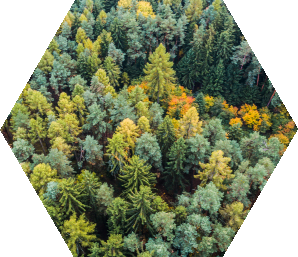
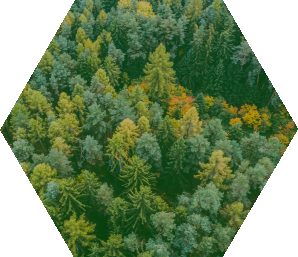
add hex textures

diff --git a/client/src/hex_ui.rs b/client/src/hex_ui.rs
@@ -4,9 +4,9 @@ use hex2d::{Coordinate, Spacing};
 use macroquad::color::Color;
 use macroquad::math::{f32, i32, vec2};
 use macroquad::prelude::{
-    draw_text, draw_texture_ex, DrawTextureParams, Rect, Texture2D, BLACK, WHITE,
+    draw_text, draw_texture_ex, DrawTextureParams, Rect, Texture2D, BLACK, DARKGRAY, WHITE,
 };
-
+use macroquad::shapes::draw_hexagon;
 
 use server::position::Position;
 
@@ -24,7 +24,7 @@ pub fn center(pos: Position) -> Point {
 
 pub fn draw_hex(p: Position, fill_color: Color, text_color: Color, alpha: f32, t: &Texture2D) {
     let c = center(p);
-    let mut v = fill_color.to_vec();
+    let mut v = WHITE.to_vec();
     v.w = alpha;
     draw_texture_ex(
         t,
@@ -37,7 +37,7 @@ pub fn draw_hex(p: Position, fill_color: Color, text_color: Color, alpha: f32, t
             ..Default::default()
         },
     );
-    // draw_hexagon(c.x, c.y, SIZE, 2.0, false, DARKGRAY, Color::from_vec(v));
+    draw_hexagon(c.x, c.y, SIZE, 2.0, false, DARKGRAY, Color::from_vec(v));
     draw_text(&p.to_string(), c.x - 30.0, c.y - 35.0, 20.0, text_color);
 }
 

diff --git a/client/src/map_ui.rs b/client/src/map_ui.rs
@@ -19,6 +19,7 @@ use crate::ui_state::{can_play_action, ActiveDialog, State, StateUpdate, StateUp
 use crate::{collect_ui, hex_ui, unit_ui};
 
 fn terrain_color(t: &Terrain) -> (Color, bool) {
+    //todo color not needed
     match t {
         Terrain::Barren => (Color::from_hex(0x00B2_6C19), true),
         Terrain::Mountain => (Color::from_hex(0x0057_5757), true),
@@ -49,12 +50,12 @@ pub fn draw_map(game: &Game, state: &State) {
                     if start == *pos {
                         0.5
                     } else if s.destinations.contains(pos) {
-                        0.2
+                        0.8
                     } else {
-                        1.0
+                        0.
                     }
                 } else {
-                    1.0
+                    0.
                 }
             }
             ActiveDialog::ReplaceUnits(s) => {
@@ -113,7 +114,7 @@ fn highlight_if(b: bool) -> f32 {
     if b {
         0.5
     } else {
-        1.0
+        0.
     }
 }
 
